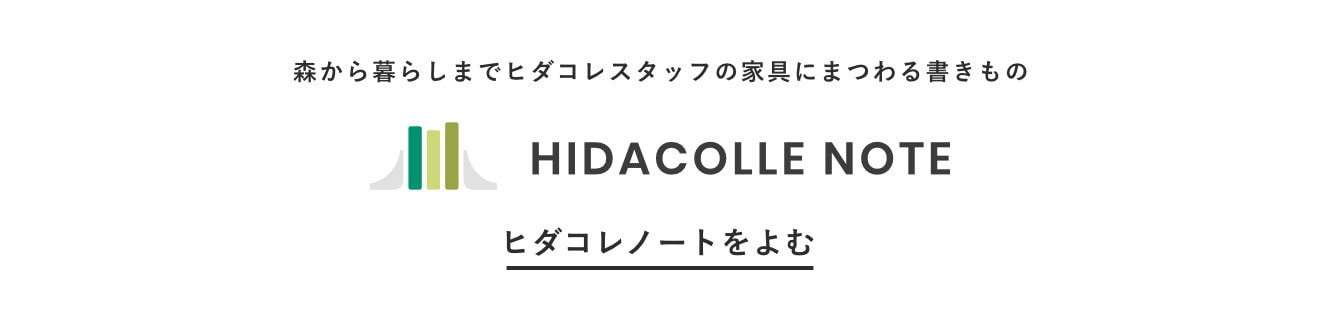
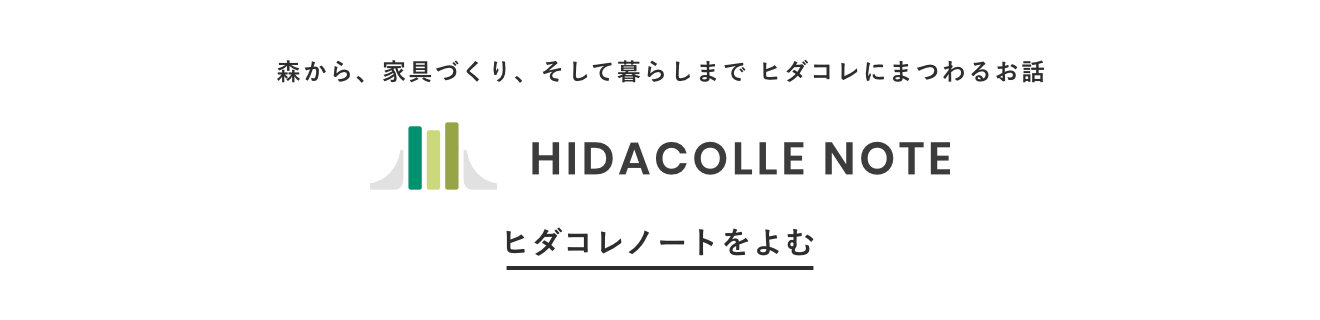
Update SEO,altの追加 ノートコピーの変更

Changed region(s): [[0.1864, 0.1875, 0.8076, 0.2812]]

diff --git a/pages/note/[slug].tsx b/pages/note/[slug].tsx
@@ -14,7 +14,7 @@ import { getPostBySlug } from "lib/wpapi";
 
 // date-fns
 function Date({ dateString }) {
-  return <time dateTime={dateString}>{format(parseISO(dateString), 'yyyy.MM.dd (EEEE)', {locale:ja} )} に書きました</time>
+  return <time dateTime={dateString}>{format(parseISO(dateString), 'yyyy.MM.dd (EEEE)', {locale:ja} )}</time>
 };
 
 export async function getStaticPaths() {
@@ -54,6 +54,8 @@ export async function getStaticProps(context) {
 
   const note_person_introduction = post.note_person_introduction;
 
+  const description = post.description;
+
   console.log(categories);
 
   return {
@@ -67,7 +69,8 @@ export async function getStaticProps(context) {
       eyecatch_altText,
       eyecatch_width,
       eyecatch_height,
-      note_person_introduction
+      note_person_introduction,
+      description
     }
   };
 }
@@ -83,15 +86,16 @@ type Props = {
   eyecatch_width: number;
   eyecatch_height: number;
   note_person_introduction: string;
+  description: string;
 }
 
-const Home: NextPage<Props> = ({title,slug,publishDate,content,categories,eyecatch_url,eyecatch_altText,eyecatch_width,eyecatch_height,note_person_introduction}) => {
+const Home: NextPage<Props> = ({title,slug,publishDate,content,categories,eyecatch_url,eyecatch_altText,eyecatch_width,eyecatch_height,note_person_introduction,description}) => {
 
   return (
     <>
       <PageHead
         pageTitle = {`${title} | ヒダコレ ノート`}
-        pageDescription = ""
+        pageDescription = {description}
         pageRobots = ""
         pagePath = {`https://www.hidacolle.com/note/${slug}`}
         pageImg = {eyecatch_url}
@@ -109,7 +113,7 @@ const Home: NextPage<Props> = ({title,slug,publishDate,content,categories,eyecat
               <a>
                 <Image
                   src="/logo-note.svg"
-                  alt="森から暮らしまで ヒダコレスタッフの家具にまつわる書きもの"
+                  alt="ヒダコレノートロゴマーク"
                   width={180}
                   height={20}
                 />
@@ -124,7 +128,7 @@ const Home: NextPage<Props> = ({title,slug,publishDate,content,categories,eyecat
 
         <div className="note-item-heading">
           <div className="item-data">
-            <div className="item-date"><Date dateString={publishDate} /></div>
+            <div className="item-date"><Date dateString={publishDate} />に書きました</div>
             <h2 className="item-title">{title}</h2>
           </div>
           <div className="back">

diff --git a/pages/index.tsx b/pages/index.tsx
@@ -569,7 +569,7 @@ const Home: NextPage<Props> = ({allPosts}) => {
                       <div className="logomark">
                         <Image
                           src="/mark-note.svg"
-                          alt="森から暮らしまで ヒダコレスタッフの家具にまつわる書きもの"
+                          alt="ヒダコレノートロゴマーク"
                           width={64}
                           height={34}
                         />
@@ -578,7 +578,7 @@ const Home: NextPage<Props> = ({allPosts}) => {
                     </div>
                     <div className="logotype">HIDACOLLE <br className="pc_only" />NOTE</div>
                   </div>
-                  <div className="caption">森から暮らしまで<br />ヒダコレスタッフの家具にまつわる書きもの</div>
+                  <div className="caption">森から、家具づくり、そして暮らしまで<br />ヒダコレにまつわるお話</div>
                 </div>
                 <div className="layout-button">
                   <Link href='/note' legacyBehavior><a className="button target_this_site">ヒダコレノートをよむ</a></Link>

diff --git a/pages/note/index.tsx b/pages/note/index.tsx
@@ -85,7 +85,7 @@ const Home: NextPage<Props> = ({allPosts}) => {
         <PageHead
           pageTitle = "ヒダコレ ノート"
           pageDescription = ""
-          pageRobots = "none"
+          pageRobots = ""
           pagePath = "https://www.hidacolle.com/note"
           pageImg = ""
           pageImgWidth = ""
@@ -132,7 +132,7 @@ const Home: NextPage<Props> = ({allPosts}) => {
                   </div>
                   <div className="logotype">HIDACOLLE <br className="pc_only" />NOTE</div>
                 </div>
-                <div className="caption">森から暮らしまで<br />ヒダコレスタッフの家具にまつわる書きもの</div>
+                <div className="caption">森から、家具づくり、そして暮らしまで<br />ヒダコレにまつわるお話</div>
               </div>
             </div>
 

diff --git a/lib/wpapi.js b/lib/wpapi.js
@@ -116,6 +116,9 @@ export async function getPostBySlug(slug) {
                     note_person_introduction {
                         personIntroduction
                     }
+                    seo {
+                        metaDesc
+                    }
                 }
             }
             `
@@ -130,6 +133,7 @@ export async function getPostBySlug(slug) {
             content: response.post.content,
             categories: response.post.categories.nodes,
             note_person_introduction: response.post.note_person_introduction.personIntroduction,
+            description: response.post.seo.metaDesc,
         }
 
         if (response.post.featuredImage) {
